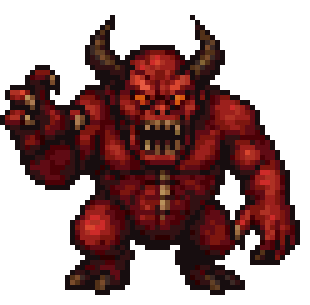
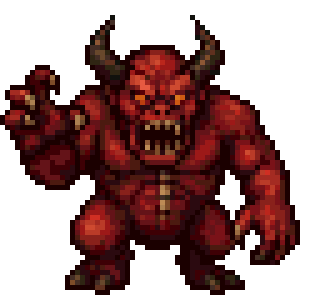
added gen_ouputs script and shrunk assets

diff --git a/tests/test_pixelate.py b/tests/test_pixelate.py
@@ -1,23 +1,64 @@
-"""Visual output tests"""
+"""Visual regression tests.
+
+Each case is pixelated and compared against its committed golden output at
+``assets/{name}/result.png`` with a tolerant pixel diff. A failure means the
+algorithm's output changed. If the change is intentional, regenerate the
+goldens with ``uv run python scripts/gen_outputs.py``, review the resulting
+image diff, and commit.
+"""
 
 from pathlib import Path
 
+import numpy as np
+import pytest
+from cases import golden_path
 from PIL import Image
 
 from proper_pixel_art import pixelate
 
+# Tolerances for the golden comparison. The algorithm is deterministic, so these
+# only absorb minor cross-platform / Pillow-version quantizer drift.
+MAX_MEAN_ABS_DIFF = 2.0  # mean abs per-channel difference, 0-255 scale
+MAX_DIFF_FRACTION = 0.005  # fraction of channels allowed to differ by >1
+
+
+def assert_images_close(actual: Image.Image, golden: Image.Image, name: str) -> None:
+    """Assert two images match within tolerance (compared as RGBA arrays)."""
+    actual_rgba = actual.convert("RGBA")
+    golden_rgba = golden.convert("RGBA")
+    assert actual_rgba.size == golden_rgba.size, (
+        f"Size mismatch for {name}: {actual_rgba.size} != golden {golden_rgba.size}. "
+        f"Regenerate goldens with `uv run python scripts/gen_outputs.py`."
+    )
+
+    a = np.asarray(actual_rgba, dtype=np.int16)
+    g = np.asarray(golden_rgba, dtype=np.int16)
+    diff = np.abs(a - g)
+
+    mean_abs_diff = float(diff.mean())
+    diff_fraction = float((diff > 1).mean())
+
+    assert (
+        mean_abs_diff <= MAX_MEAN_ABS_DIFF and diff_fraction <= MAX_DIFF_FRACTION
+    ), (
+        f"Output for {name} differs from golden "
+        f"(mean abs diff {mean_abs_diff:.3f} > {MAX_MEAN_ABS_DIFF} or "
+        f"differing fraction {diff_fraction:.4f} > {MAX_DIFF_FRACTION}). "
+        f"If intentional, regenerate goldens with "
+        f"`uv run python scripts/gen_outputs.py` and review the diff."
+    )
+
 
 def test_pixelate_pngs(pixelate_png_test_params: dict[str, dict]) -> None:
-    """Test that pixelate algorithm runs without error for png images and generates output."""
+    """Pixelate each asset and compare against its committed golden output."""
     output_dir = Path.cwd() / "tests" / "outputs"
     output_dir.mkdir(exist_ok=True, parents=True)
+
     for name, params in pixelate_png_test_params.items():
         pixel_dir = output_dir / str(name)
         pixel_dir.mkdir(parents=True, exist_ok=True)
 
         img = Image.open(params["path"])
-
-        # Pixelate
         result = pixelate(
             img,
             num_colors=params["num_colors"],
@@ -26,18 +67,16 @@ def test_pixelate_pngs(pixelate_png_test_params: dict[str, dict]) -> None:
             intermediate_dir=pixel_dir,
         )
 
-        # Save the result
+        # Keep the fresh result around for inspection when a comparison fails.
         result_path = pixel_dir / "result.png"
         result.save(result_path)
-
-        # Verify the output exists and has a width and height
-        assert result_path.exists(), f"Output file not created for {name}"
         assert result.width > 0 and result.height > 0, f"Invalid dimensions for {name}"
 
-        print(f"Generated output for {name}: {result_path}")
-    print(
-        (
-            "Successfully generated all .png test images.\n"
-            f"Manually inspect the results in {output_dir} to verify pixelation quality."
-        )
-    )
+        golden = golden_path(name)
+        if not golden.exists():
+            pytest.fail(
+                f"Missing golden image for {name} at {golden}. "
+                f"Generate it with `uv run python scripts/gen_outputs.py`."
+            )
+
+        assert_images_close(result, Image.open(golden), name)

diff --git a/tests/cases.py b/tests/cases.py
@@ -1,0 +1,59 @@
+"""Canonical pixelation test cases.
+
+Single source of truth shared by the visual regression test
+(``tests/test_pixelate.py`` via ``tests/conftest.py``) and the golden
+regeneration script (``scripts/gen_outputs.py``). Keeping the case table here
+ensures the test and the "bless" script can never drift apart.
+
+Each case maps an asset name to its pixelation parameters and input image path.
+The committed golden output for a case lives at ``assets/{name}/result.png``.
+"""
+
+from pathlib import Path
+
+# Repo root: tests/cases.py -> proper-pixel-art/
+ROOT = Path(__file__).resolve().parent.parent
+ASSETS = ROOT / "assets"
+
+
+def _case(
+    name: str,
+    *,
+    num_colors: int,
+    result_scale: int,
+    transparent_background: bool,
+) -> dict:
+    return {
+        "name": name,
+        "num_colors": num_colors,
+        "result_scale": result_scale,
+        "transparent_background": transparent_background,
+        "path": ASSETS / name / f"{name}.png",
+    }
+
+
+# Ordered table of every PNG case exercised by the visual pipeline.
+PIXELATE_PNG_CASES: dict[str, dict] = {
+    # Transparent background with an interior hole.
+    "anchor": _case(
+        "anchor", num_colors=16, result_scale=5, transparent_background=True
+    ),
+    "ash": _case("ash", num_colors=16, result_scale=5, transparent_background=False),
+    "bat": _case("bat", num_colors=16, result_scale=5, transparent_background=True),
+    "blob": _case("blob", num_colors=16, result_scale=25, transparent_background=False),
+    "demon": _case(
+        "demon", num_colors=64, result_scale=5, transparent_background=True
+    ),
+    "mountain": _case(
+        "mountain", num_colors=64, result_scale=5, transparent_background=False
+    ),
+    # Skips quantization (num_colors=0 preserves all colors).
+    "pumpkin": _case(
+        "pumpkin", num_colors=0, result_scale=5, transparent_background=False
+    ),
+}
+
+
+def golden_path(name: str) -> Path:
+    """Committed reference output for a case."""
+    return ASSETS / name / "result.png"

diff --git a/tests/conftest.py b/tests/conftest.py
@@ -1,6 +1,7 @@
 from pathlib import Path
 
 import pytest
+from cases import PIXELATE_PNG_CASES
 
 
 @pytest.fixture(name="assets")
@@ -10,51 +11,5 @@ def fixture_assets() -> Path:
 
 
 @pytest.fixture(name="pixelate_png_test_params")
-def fixture_pixelate_png_test_params(assets: Path) -> dict[str, dict]:
-    pixelate_png_test_params = {
-        # Test case for transparent background with hole
-        "anchor": {
-            "num_colors": 16,
-            "result_scale": 5,
-            "transparent_background": True,
-            "path": assets / "anchor" / "anchor.png",
-        },
-        "ash": {
-            "num_colors": 16,
-            "result_scale": 5,
-            "transparent_background": False,
-            "path": assets / "ash" / "ash.png",
-        },
-        "bat": {
-            "num_colors": 16,
-            "result_scale": 5,
-            "transparent_background": True,
-            "path": assets / "bat" / "bat.png",
-        },
-        "blob": {
-            "num_colors": 16,
-            "result_scale": 25,
-            "transparent_background": False,
-            "path": assets / "blob" / "blob.png",
-        },
-        "demon": {
-            "num_colors": 64,
-            "result_scale": 5,
-            "transparent_background": True,
-            "path": assets / "demon" / "demon.png",
-        },
-        "mountain": {
-            "num_colors": 64,
-            "result_scale": 5,
-            "transparent_background": False,
-            "path": assets / "mountain" / "mountain.png",
-        },
-        # Test case for skipping quantization
-        "pumpkin": {
-            "num_colors": 0,
-            "result_scale": 5,
-            "transparent_background": False,
-            "path": assets / "pumpkin" / "pumpkin.png",
-        },
-    }
-    return pixelate_png_test_params
+def fixture_pixelate_png_test_params() -> dict[str, dict]:
+    return PIXELATE_PNG_CASES

diff --git a/scripts/gen_outputs.py b/scripts/gen_outputs.py
@@ -1,0 +1,53 @@
+#!/usr/bin/env python3
+"""Regenerate the committed golden outputs for the visual regression tests.
+
+Run this after an *intentional* algorithm change:
+
+    uv run python scripts/gen_outputs.py
+
+For every case in ``tests/cases.py`` it pixelates the input asset and overwrites
+``assets/{name}/result.png`` (plus the intermediate visualizations: mesh.png,
+edges.png, lines.png, closed_edges.png, quantized_original.png). Review the
+resulting git image diff before committing -- that diff is the visual review.
+"""
+
+import sys
+from pathlib import Path
+
+from PIL import Image
+
+# Make the repo root importable so ``tests.cases`` resolves when run as a script.
+ROOT = Path(__file__).resolve().parent.parent
+sys.path.insert(0, str(ROOT))
+
+from proper_pixel_art import pixelate  # noqa: E402
+from tests.cases import PIXELATE_PNG_CASES, golden_path  # noqa: E402
+
+
+def main() -> None:
+    for name, params in PIXELATE_PNG_CASES.items():
+        asset_dir = ROOT / "assets" / name
+        asset_dir.mkdir(parents=True, exist_ok=True)
+
+        print(f"Regenerating {name}...")
+        img = Image.open(params["path"])
+        result = pixelate(
+            img,
+            num_colors=params["num_colors"],
+            scale_result=params["result_scale"],
+            transparent_background=params["transparent_background"],
+            intermediate_dir=asset_dir,
+        )
+
+        out = golden_path(name)
+        result.save(out)
+        print(f"  wrote {out.relative_to(ROOT)} ({result.width}x{result.height})")
+
+    print(
+        f"\nRegenerated {len(PIXELATE_PNG_CASES)} golden(s). "
+        "Review the git image diff before committing."
+    )
+
+
+if __name__ == "__main__":
+    main()

diff --git a/scripts/README.md b/scripts/README.md
@@ -95,3 +95,19 @@ Generated files are named with timestamps, ending with `original.png` for origin
 </table>
 
 See the main project README for more examples.
+
+## gen-outputs
+
+Regenerate the committed golden outputs used by the visual regression tests
+(`tests/test_pixelate.py`). Run this **only after an intentional algorithm
+change**.
+
+```bash
+uv run python scripts/gen_outputs.py
+```
+
+For every case in `tests/cases.py` it pixelates the input asset and overwrites
+`assets/{name}/result.png` along with the intermediate visualizations
+(`mesh.png`, `edges.png`, `lines.png`, `closed_edges.png`,
+`quantized_original.png`). Review the resulting git image diff before committing
+— that diff is the visual review. See `CONTRIBUTING.md` for the full workflow.

diff --git a/README.md b/README.md
@@ -74,7 +74,7 @@ ppa <input_path> -o <output_path> -c <num_colors> -s <result_scale> [-t]
 #### Example
 
 ```bash
-ppa assets/blob/blob.png -c 16 -s 5 -t
+ppa assets/blob/blob.png -c 16 -s 25
 ```
 
 Note: `num_colors` is the parameter most likely to need tuning. Try values like 8, 16, 32, or 64 if the result doesn't look right, or use 0 to skip quantization.
